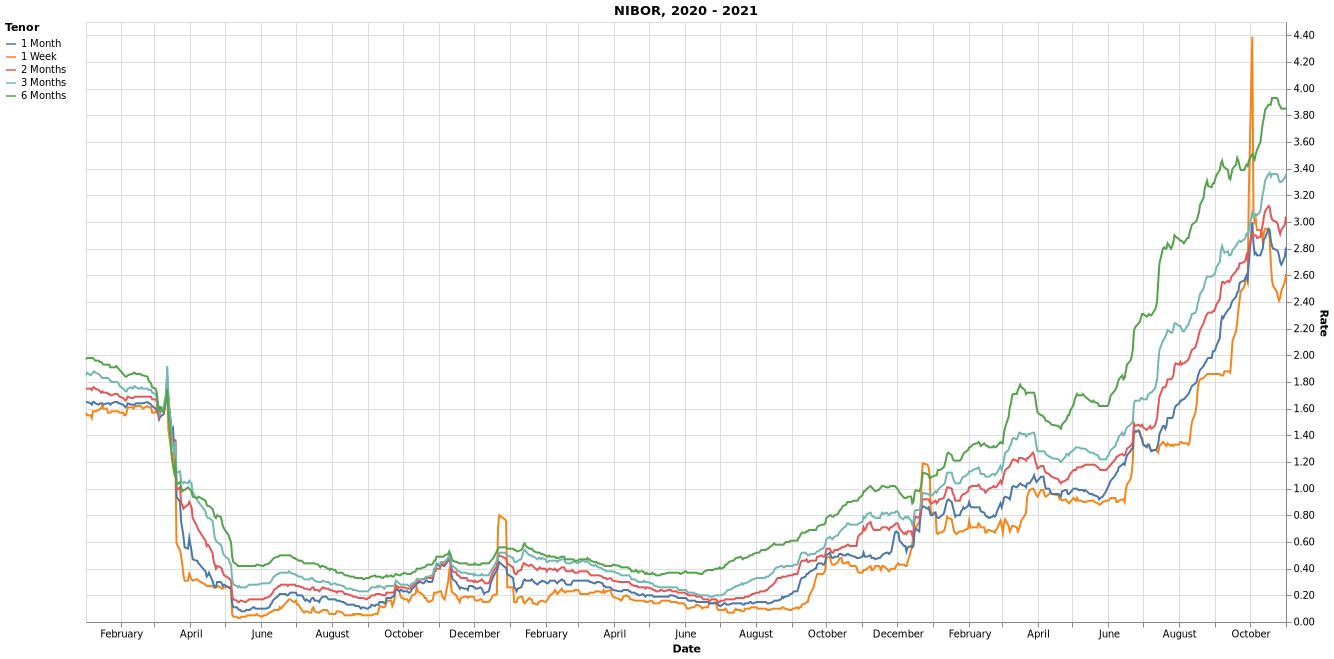
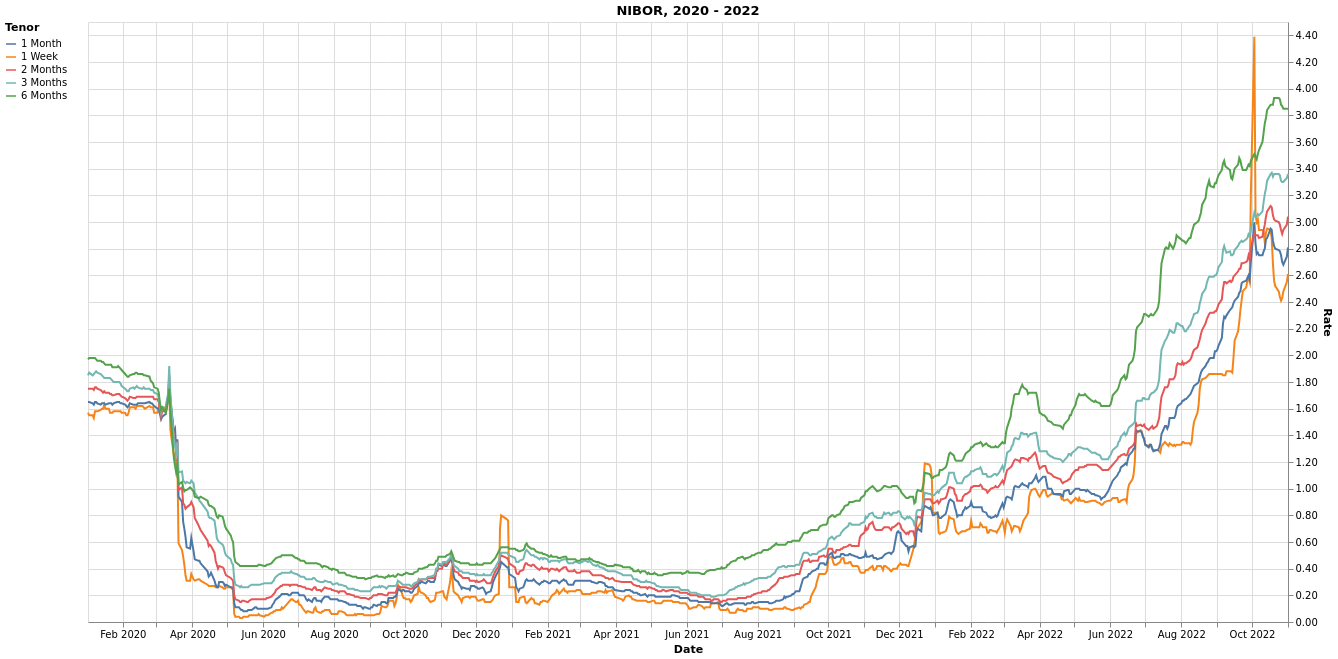
Update NIBOR chart date format

diff --git a/graphs.py b/graphs.py
@@ -78,10 +78,16 @@ def nibor():
     df = df[df.Date >= "2020-01-02"].dropna()
 
     chart = (
-        alt.Chart(df, title="NIBOR, 2020 - 2021")
+        alt.Chart(df, title="NIBOR, 2020 - 2022")
         .mark_line()
         .encode(
-            x=alt.X("Date", title="Date"),
+            x=alt.X(
+                "yearmonthdate(Date):T",
+                axis=alt.Axis(
+                    title="Date",
+                    format="%b %Y",
+                ),
+            ),
             y=alt.Y(
                 "Rate:Q",
                 title="Rate",
